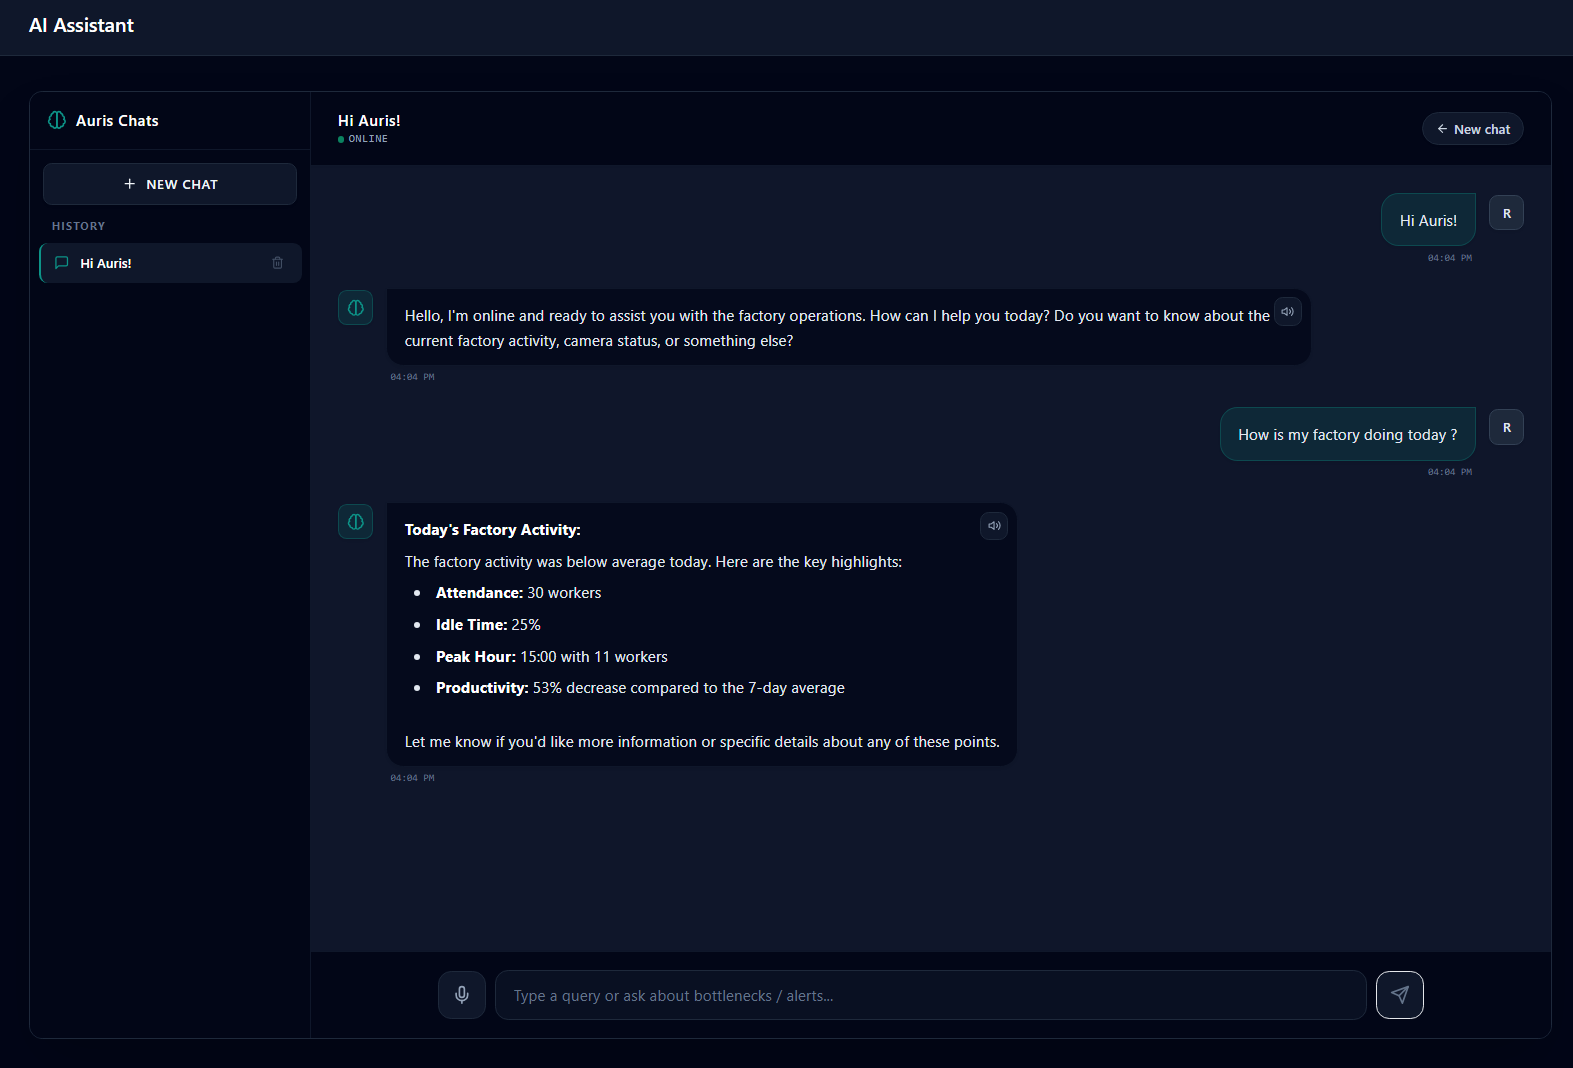
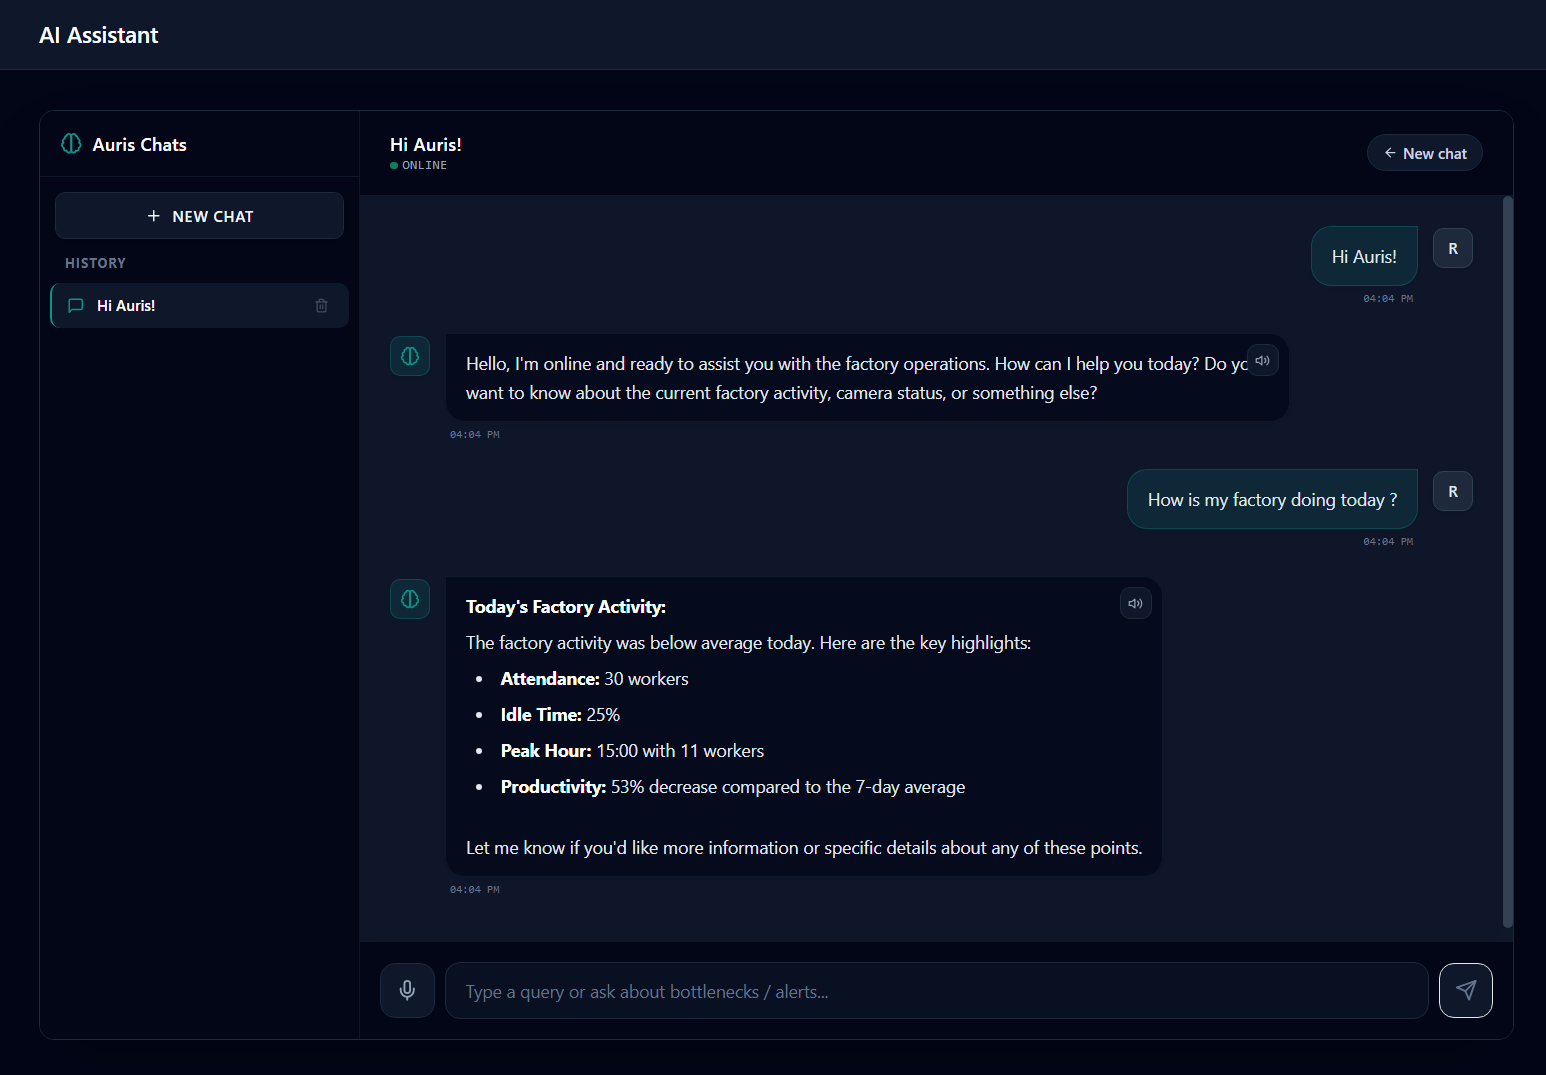
fix: resolve products accordion layout toggle and update screenshot assets

diff --git a/src/components/Products.tsx b/src/components/Products.tsx
@@ -181,15 +181,16 @@ export default function Products() {
                     {p.desc}
                   </p>
 
-                  {/* Expandable Details Container using CSS Grid for height animation */}
+                  {/* Expandable Details Container */}
                   <div
-                    className={`grid transition-all duration-500 ease-in-out ${
+                    onClick={(e) => e.stopPropagation()}
+                    className={`transition-all duration-500 ease-in-out overflow-hidden ${
                       isExpanded
-                        ? 'grid-rows-[1fr] opacity-100 mt-6 pt-6 border-t border-card-border/40'
-                        : 'grid-rows-[0fr] opacity-0'
+                        ? 'max-h-[1000px] opacity-100 mt-6 pt-6 border-t border-card-border/40'
+                        : 'max-h-0 opacity-0'
                     }`}
                   >
-                    <div className="overflow-hidden">
+                    <div>
                       <div className="space-y-6">
                         <p className="text-text-muted text-sm md:text-base leading-relaxed">
                           {p.detailedDesc}

diff --git a/src/components/Hero.tsx b/src/components/Hero.tsx
@@ -118,7 +118,7 @@ export default function Hero() {
         </div>
 
         {/* Factory map image */}
-        <div className="relative max-w-4xl mx-auto">
+        <div className="relative mx-auto">
           {/* LIVE badge — centered above image */}
           <div className="flex justify-center mb-4">
             <span className="live-badge">LIVE</span>

diff --git a/src/components/AssistantShowcase.tsx b/src/components/AssistantShowcase.tsx
@@ -48,7 +48,7 @@ export default function AssistantShowcase() {
                 <img
                   src="/images/assistant.png"
                   alt="Auris AI Assistant"
-                  loading="lazy"
+                  loading="eager"
                 />
               </div>
             </div>

diff --git a/src/components/LiveMapShowcase.tsx b/src/components/LiveMapShowcase.tsx
@@ -21,7 +21,7 @@ export default function LiveMapShowcase() {
                 <img
                   src="/images/factory-map.png"
                   alt="Auris 3D Live Map"
-                  loading="lazy"
+                  loading="eager"
                 />
               </div>
             </div>
